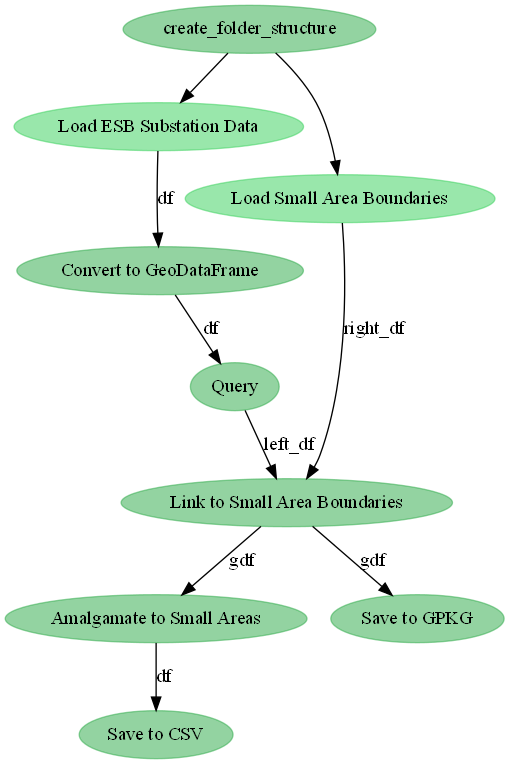
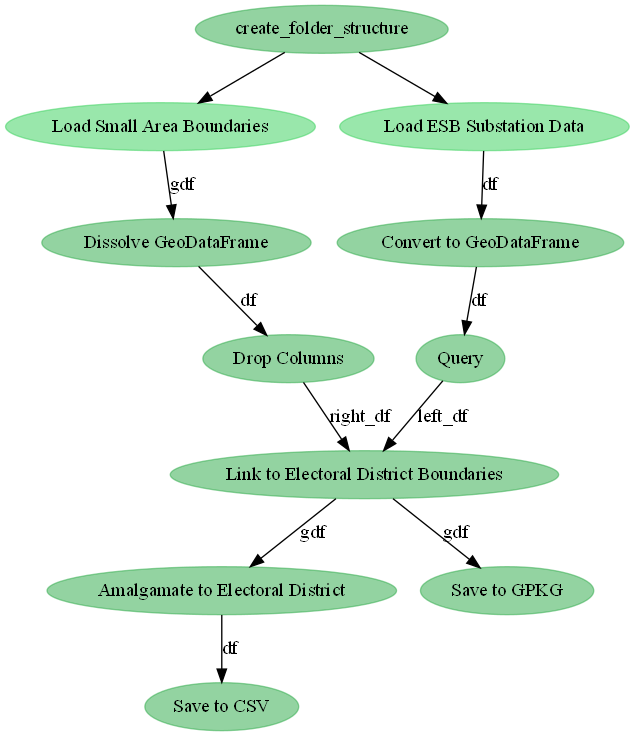
Amalgamate LV Stations to Electoral Districts
All EDs have at least one station and so don't have any missing
boundaries.

Changed region(s): [[0.0, 0.0, 1.0, 1.0], [0.6483, 0.7188, 1.0, 0.8438]]

diff --git a/lv-grid-capacity/pipeline.py b/lv-grid-capacity/pipeline.py
@@ -13,10 +13,12 @@ URLS = {
 }
 
 OUTPUT_FILEPATHS = {
-    "small_area_lv_capacity": DATA_DIR / "processed" / "small_area_lv_capacity.csv",
-    "lv_substations_in_small_areas": DATA_DIR
+    "electoral_district_lv_capacity": DATA_DIR
     / "processed"
-    / "lv_substations_in_small_areas.gpkg",
+    / "electoral_district_lv_capacity.csv",
+    "lv_substations_in_electoral_districts": DATA_DIR
+    / "processed"
+    / "lv_substations_in_electoral_districts.gpkg",
 }
 
 with Flow("Estimate LV capacity") as flow:
@@ -27,6 +29,12 @@ with Flow("Estimate LV capacity") as flow:
     small_area_boundaries = tasks.load_small_area_boundaries(
         URLS["small_area_boundaries"]
     ).set_upstream(create_folder_structure)
+    raw_electoral_district_boundaries = tasks.dissolve(
+        small_area_boundaries, by="cso_ed_id"
+    )
+    electoral_district_boundaries = tasks.drop_column(
+        raw_electoral_district_boundaries, columns=["small_area"]
+    )
 
     substations = tasks.convert_to_geodataframe(
         raw_substations,
@@ -36,21 +44,26 @@ with Flow("Estimate LV capacity") as flow:
         to_crs="EPSG:2157",
     )
     lv_substations = tasks.query(substations, "`Voltage Class` == 'LV'")
-    lv_substations_in_small_areas = tasks.link_to_small_area_boundaries(
-        left_df=lv_substations, right_df=small_area_boundaries, op="within"
+    lv_substations_in_electoral_districts = tasks.link_to_electoral_district_boundaries(
+        left_df=lv_substations, right_df=electoral_district_boundaries, op="within"
     )
-    small_area_lv_capacity = tasks.amalgamate_to_small_areas(
-        lv_substations_in_small_areas,
-        by=["small_area"],
-        on_columns=["Installed Capacity MVA", "Demand Available MVA"],
+    electoral_district_lv_capacity = tasks.amalgamate_to_electoral_district(
+        lv_substations_in_electoral_districts,
+        by=["cso_ed_id"],
+        on_columns=[
+            "SLR Load MVA",
+            "Installed Capacity MVA",
+            "Demand Available MVA",
+        ],
     )
 
     tasks.save_to_csv(
-        small_area_lv_capacity, filepath=OUTPUT_FILEPATHS["small_area_lv_capacity"]
+        electoral_district_lv_capacity,
+        filepath=OUTPUT_FILEPATHS["electoral_district_lv_capacity"],
     )
     tasks.save_to_gpkg(
-        lv_substations_in_small_areas,
-        filepath=OUTPUT_FILEPATHS["lv_substations_in_small_areas"],
+        lv_substations_in_electoral_districts,
+        filepath=OUTPUT_FILEPATHS["lv_substations_in_electoral_districts"],
     )
 
 state = flow.run()

diff --git a/lv-grid-capacity/tasks.py b/lv-grid-capacity/tasks.py
@@ -34,17 +34,22 @@ load_small_area_boundaries = task(
         dir=DATA_DIR / "external", serializer=GeoPandasSerializer("parquet")
     ),
 )
+
+dissolve = task(
+    lambda gdf, by: gdf.dissolve(by=by).reset_index(), name="Dissolve GeoDataFrame"
+)
 convert_to_geodataframe = task(
     functions.convert_to_geodataframe, name="Convert to GeoDataFrame"
 )
-query = task(lambda df, query_str: df.query(query_str), name="Query")
-link_to_small_area_boundaries = task(
+query = task(lambda df, query_str: df.query(query_str), name="Query")  #
+drop_column = task(lambda df, columns: df.drop(columns=columns), name="Drop Columns")
+link_to_electoral_district_boundaries = task(
     gpd.sjoin,
-    name="Link to Small Area Boundaries",
+    name="Link to Electoral District Boundaries",
 )
-amalgamate_to_small_areas = task(
+amalgamate_to_electoral_district = task(
     functions.groupby_sum,
-    name="Amalgamate to Small Areas",
+    name="Amalgamate to Electoral District",
 )
 
 save_to_csv = task(lambda df, filepath: df.to_csv(filepath), name="Save to CSV")
